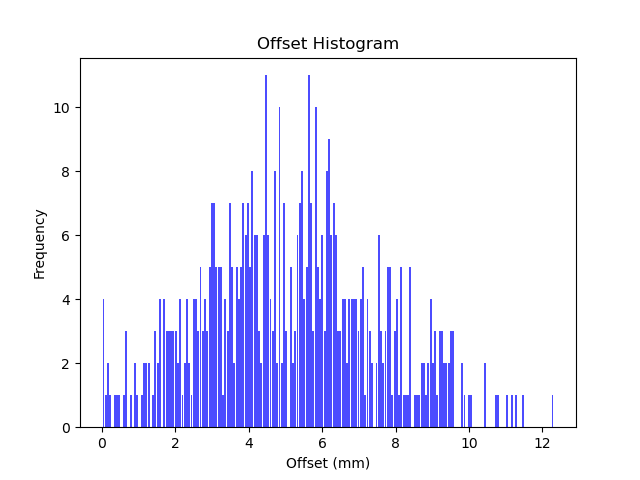
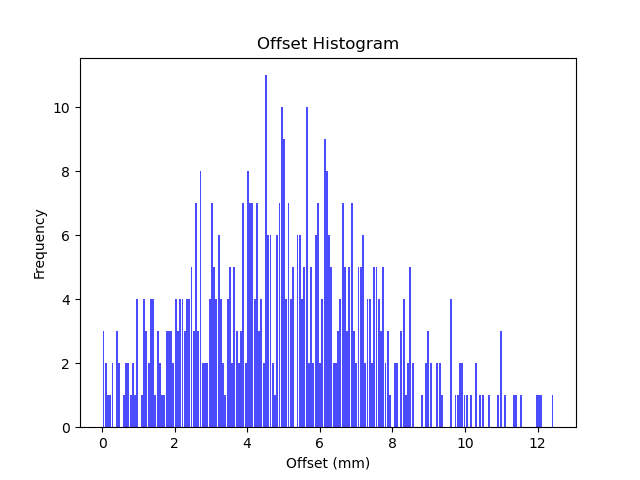
chore: Update default dataset root path and log files

diff --git a/keypoint_variance_test_2.py b/keypoint_variance_test_2.py
@@ -409,11 +409,11 @@ if __name__ == "__main__":
     # ../datasets/test/  , D:/
     parser.add_argument('--root_dataset',
                     type=str,
-                    default='../datasets/')
+                    default='D:/')
 
     opts = parser.parse_args()
 
-    output_dir = 'logs/keypoint_test/my_dataset/'
+    output_dir = 'logs/keypoint_test/5/'
     if not os.path.exists(output_dir):
         os.makedirs(output_dir)
 
@@ -424,7 +424,7 @@ if __name__ == "__main__":
     mean_offsets = []
     mean_dist_bf_icp = []
     mean_dist_af_icp = []
-    i=1.0
+    i=1
 
     while i < 300.0:
         mean = i
@@ -483,4 +483,4 @@ if __name__ == "__main__":
         plt.savefig(output_dir + 'ADDs_vs_Gaussian.png')
         plt.close()
         
-        i+=2
+        i+=1
